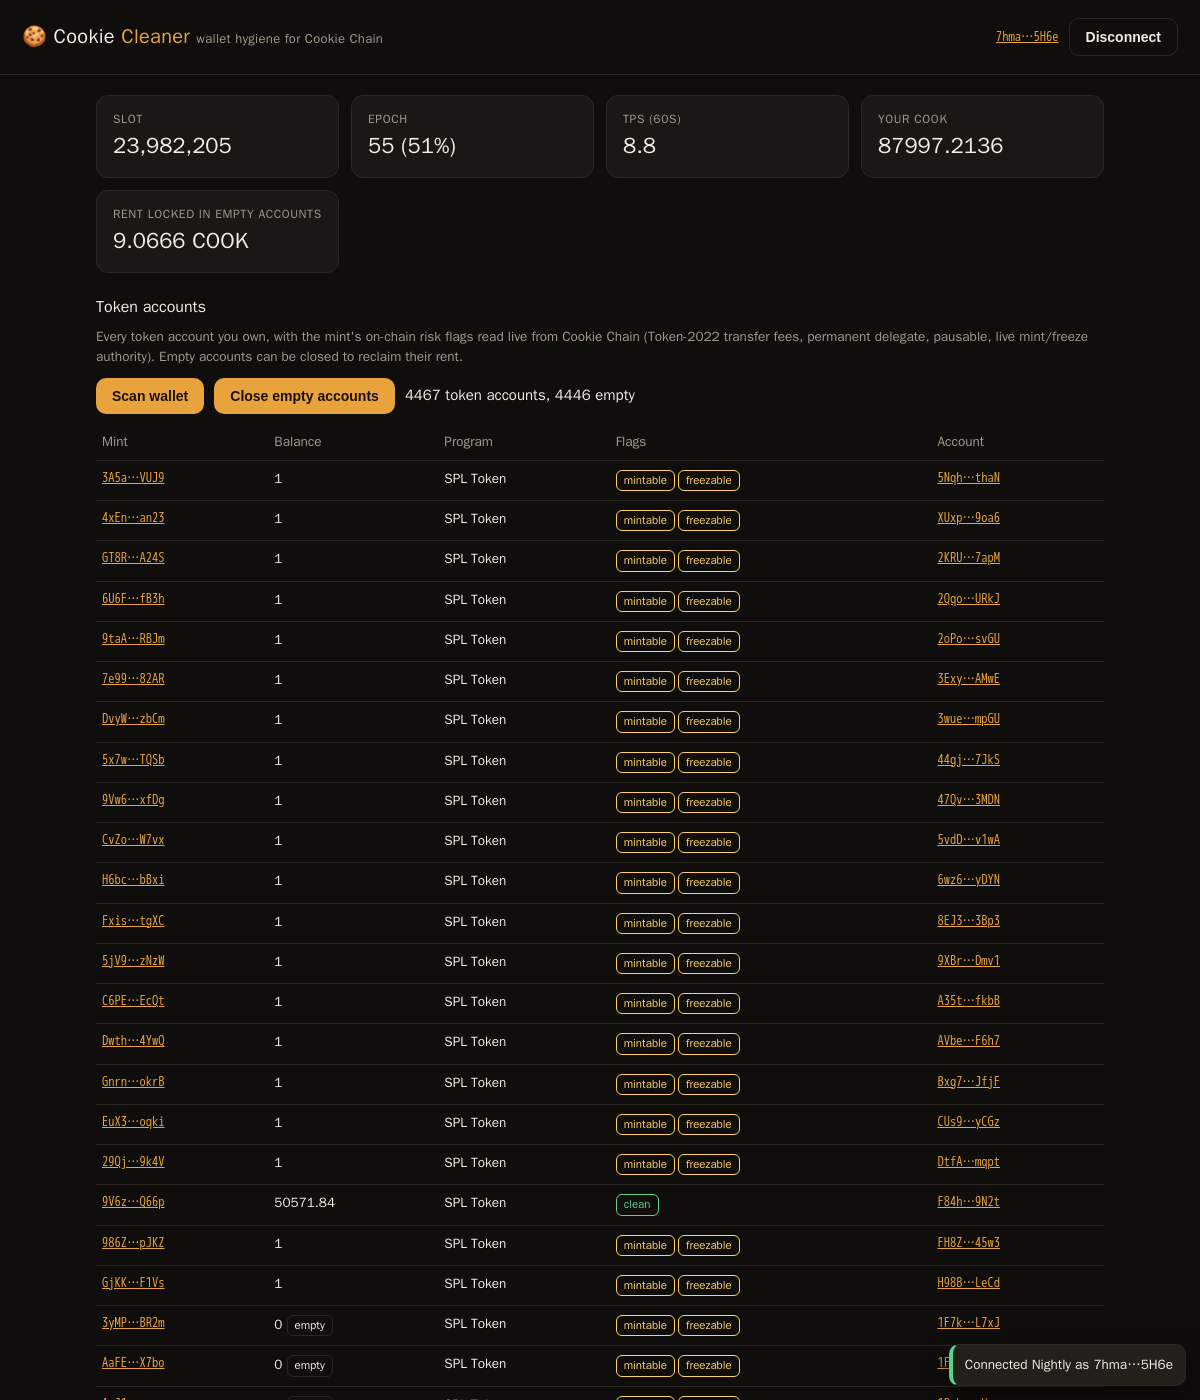
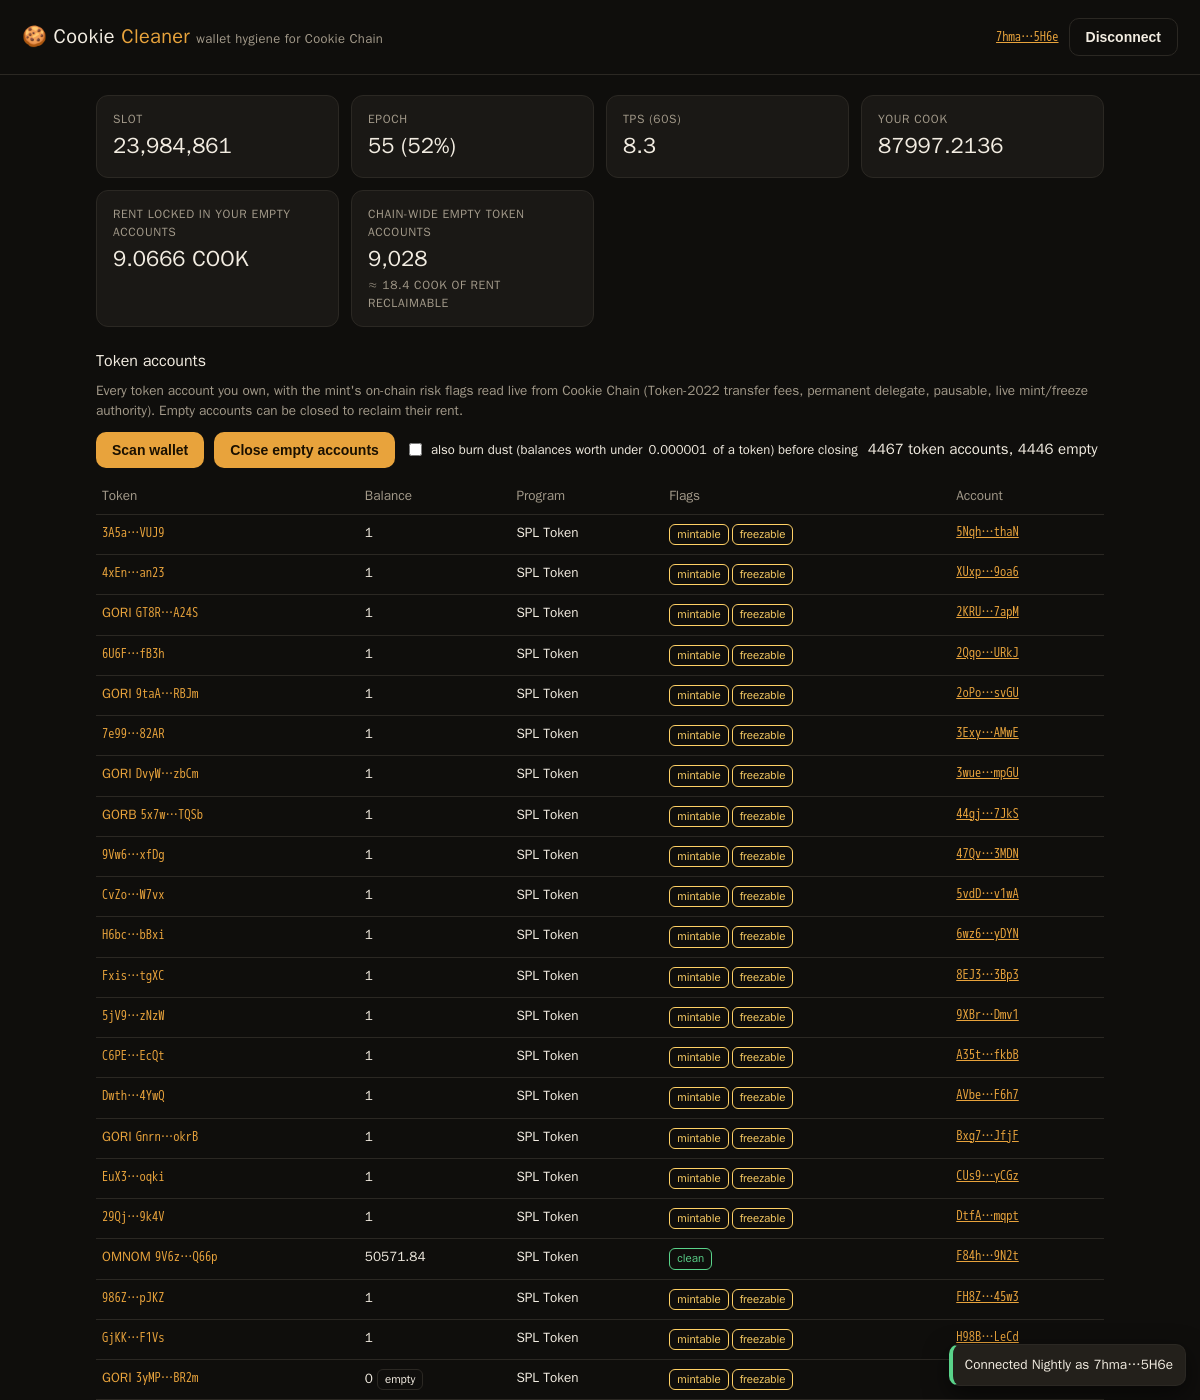
Token names, chain-wide empty-account stat, opt-in dust burn
Claude-Session: https://claude.ai/code/session_01ANS4ryDEhYqrLoKdXbeDq9

diff --git a/index.html b/index.html
@@ -44,7 +44,8 @@ h2{font-size:16px;margin:22px 0 8px}p.muted{color:var(--muted);margin:4px 0 10px
     <div class="card"><div class="k">Epoch</div><div class="v" id="epoch">…</div></div>
     <div class="card"><div class="k">TPS (60s)</div><div class="v" id="tps">…</div></div>
     <div class="card"><div class="k">Your COOK</div><div class="v" id="bal">—</div></div>
-    <div class="card"><div class="k">Rent locked in empty accounts</div><div class="v" id="rent">—</div></div>
+    <div class="card"><div class="k">Rent locked in your empty accounts</div><div class="v" id="rent">—</div></div>
+    <div class="card"><div class="k">Chain-wide empty token accounts</div><div class="v" id="chainEmpty">…</div><div class="k" id="chainRent"></div></div>
   </div>
 
   <h2>Token accounts</h2>
@@ -52,9 +53,10 @@ h2{font-size:16px;margin:22px 0 8px}p.muted{color:var(--muted);margin:4px 0 10px
   <div class="row">
     <button id="btnScan" disabled>Scan wallet</button>
     <button id="btnClose" disabled>Close empty accounts</button>
+    <label class="muted" style="font-size:13px;display:flex;gap:6px;align-items:center"><input type="checkbox" id="burnDust" style="min-width:0"> also burn dust (balances worth under <span id="dustTxt">0.000001</span> of a token) before closing</label>
     <span id="scanInfo" class="muted"></span>
   </div>
-  <div class="wrap"><table id="tbl"><thead><tr><th>Mint</th><th>Balance</th><th>Program</th><th>Flags</th><th>Account</th></tr></thead><tbody></tbody></table></div>
+  <div class="wrap"><table id="tbl"><thead><tr><th>Token</th><th>Balance</th><th>Program</th><th>Flags</th><th>Account</th></tr></thead><tbody></tbody></table></div>
 
   <h2>Send COOK</h2>
   <p class="muted">Plain transfer with confirmation tracking, so the whole sign → send → confirm path is visible.</p>
@@ -78,6 +80,8 @@ const RPC = 'https://rpc.cookiescan.io';
 const EXPLORER = 'https://cookiescan.io';
 const TOKEN = new W.PublicKey('TokenkegQfeZyiNwAJbNbGKPFXCWuBvf9Ss623VQ5DA');
 const TOKEN22 = new W.PublicKey('TokenzQdBNbLqP5VEhdkAS6EPFLC1PHnBqCXEpPxuEb');
+const METAPLEX = new W.PublicKey('metaqbxxUerdq28cj1RbAWkYQm3ybzjb6a8bt518x1s');
+const DUST = 1e-6; // token units; balances below this count as dust for the burn option
 const conn = new W.Connection(RPC, 'confirmed');
 const $ = id => document.getElementById(id);
 
@@ -164,6 +168,14 @@ async function stats() {
     if (perf[0]) $('tps').textContent = (perf[0].numTransactions / perf[0].samplePeriodSecs).toFixed(1);
   } catch (e) { $('slot').textContent = 'rpc error'; }
 }
+// Chain-wide count of empty token accounts (amount == 0 at offset 64), pubkeys only.
+async function chainStats() {
+  try {
+    const [a, b] = await Promise.all([TOKEN, TOKEN22].map(pid => conn.getProgramAccounts(pid, { dataSlice: { offset: 0, length: 0 }, filters: [{ dataSize: 165 }, { memcmp: { offset: 64, bytes: '11111111' } }] })));
+    const n = a.length + b.length; $('chainEmpty').textContent = n.toLocaleString();
+    $('chainRent').textContent = '≈ ' + (n * 2039280 / 1e9).toFixed(1) + ' COOK of rent reclaimable';
+  } catch (e) { $('chainEmpty').textContent = 'n/a'; }
+}
 async function refreshBalance() { try { $('bal').textContent = (await conn.getBalance(pubkey) / 1e9).toFixed(4); } catch (e) { toast('Balance read failed: ' + e.message, 'bad'); } }
 
 // ---------- Token account scan + mint risk flags ----------
@@ -184,8 +196,9 @@ function parseMint(v) {
   let out = { flags: [], program: '?' };
   try {
     if (!v || !v.data || !v.data.parsed) { out.flags.push({ t: 'unknown mint', c: 'warn' }); return out; }
-    const info = v.data.parsed.info; out.program = v.owner.equals(TOKEN22) ? 'Token-2022' : 'SPL Token';
+    const info = v.data.parsed.info; out.program = v.owner.equals(TOKEN22) ? 'Token-2022' : 'SPL Token'; out.decimals = info.decimals;
     const ext = {}; for (const e of info.extensions || []) ext[e.extension] = e.state || {};
+    if (ext.tokenMetadata && ext.tokenMetadata.symbol) out.name = ext.tokenMetadata.symbol;
     const fee = ext.transferFeeConfig && ext.transferFeeConfig.newerTransferFee && ext.transferFeeConfig.newerTransferFee.transferFeeBasisPoints;
     if (fee) out.flags.push({ t: 'transfer tax ' + (fee / 100) + '%', c: 'bad' });
     if (ext.permanentDelegate) out.flags.push({ t: 'permanent delegate', c: 'bad' });
@@ -198,6 +211,19 @@ function parseMint(v) {
   return out;
 }
 const MAX_ROWS = 500;
+// Metaplex token metadata (name/symbol) for mints without Token-2022 metadata, 100 PDAs per call.
+async function loadNames(mints) {
+  const todo = mints.filter(m => mintCache.has(m) && !mintCache.get(m).name && !mintCache.get(m).nameTried);
+  for (let i = 0; i < todo.length; i += 100) {
+    const chunk = todo.slice(i, i + 100);
+    const pdas = chunk.map(m => W.PublicKey.findProgramAddressSync([new TextEncoder().encode('metadata'), METAPLEX.toBytes(), new W.PublicKey(m).toBytes()], METAPLEX)[0]);
+    try {
+      const res = await conn.getMultipleAccountsInfo(pdas);
+      chunk.forEach((m, j) => { const mi = mintCache.get(m); mi.nameTried = true; const acc = res[j]; if (!acc) return;
+        try { const d = acc.data; let o = 1 + 32 + 32; const nl = d.readUInt32LE(o); o += 4; const name = d.slice(o, o + nl).toString('utf8').replace(/\0+$/, ''); o += nl; const sl = d.readUInt32LE(o); o += 4; const sym = d.slice(o, o + sl).toString('utf8').replace(/\0+$/, ''); mi.name = sym || name; mi.fullName = name; } catch (e) {} });
+    } catch (e) { chunk.forEach(m => { mintCache.get(m).nameTried = true; }); }
+  }
+}
 async function scan() {
   $('btnScan').disabled = true; $('scanInfo').textContent = 'scanning…'; accounts = [];
   try {
@@ -213,12 +239,13 @@ async function scan() {
     $('scanInfo').textContent = `${accounts.length} token accounts, ${empties} empty — reading mint flags…`;
     // non-empty accounts first, then empties; cap rows for very large wallets
     const ordered = [...accounts.filter(a => a.raw !== '0'), ...accounts.filter(a => a.raw === '0')].slice(0, MAX_ROWS);
-    await loadMints(ordered.map(a => a.mint));
+    await loadMints(ordered.map(a => a.mint)); await loadNames(ordered.map(a => a.mint));
     for (const ac of ordered) {
       const mi = mintCache.get(ac.mint) || { flags: [], program: '?' };
-      const empty = ac.raw === '0' && !ac.frozen;
+      const empty = ac.raw === '0' && !ac.frozen; const dust = !empty && !ac.frozen && parseFloat(ac.amount) < DUST;
+      const label = mi.name ? `<b>${mi.name.replace(/[<>&]/g, '')}</b> <span class="mono muted">${short(ac.mint)}</span>` : `<span class="mono">${short(ac.mint)}</span>`;
       const tr = document.createElement('tr');
-      tr.innerHTML = `<td class="mono"><a target="_blank" rel="noopener" href="${EXPLORER}/token/${ac.mint}">${short(ac.mint)}</a></td><td>${ac.amount}${empty ? ' <span class="tag">empty</span>' : ''}${ac.frozen ? ' <span class="tag bad">frozen</span>' : ''}</td><td>${mi.program}</td><td>${mi.flags.map(f => `<span class="tag ${f.c}">${f.t}</span>`).join('')}</td><td class="mono"><a target="_blank" rel="noopener" href="${EXPLORER}/address/${ac.pubkey.toBase58()}">${short(ac.pubkey.toBase58())}</a></td>`;
+      tr.innerHTML = `<td><a target="_blank" rel="noopener" href="${EXPLORER}/token/${ac.mint}" style="text-decoration:none">${label}</a></td><td>${ac.amount}${empty ? ' <span class="tag">empty</span>' : ''}${dust ? ' <span class="tag warn">dust</span>' : ''}${ac.frozen ? ' <span class="tag bad">frozen</span>' : ''}</td><td>${mi.program}</td><td>${mi.flags.map(f => `<span class="tag ${f.c}">${f.t}</span>`).join('')}</td><td class="mono"><a target="_blank" rel="noopener" href="${EXPLORER}/address/${ac.pubkey.toBase58()}">${short(ac.pubkey.toBase58())}</a></td>`;
       tb.appendChild(tr);
     }
     if (accounts.length > MAX_ROWS) { const tr = document.createElement('tr'); tr.innerHTML = `<td colspan="5" class="muted">Showing ${MAX_ROWS} of ${accounts.length} accounts. Closing still covers all empty accounts.</td>`; tb.appendChild(tr); }
@@ -232,14 +259,24 @@ function closeIx(ac) {
   return new W.TransactionInstruction({ programId: ac.program, data: Uint8Array.from([9]),
     keys: [{ pubkey: ac.pubkey, isSigner: false, isWritable: true }, { pubkey: pubkey, isSigner: false, isWritable: true }, { pubkey: pubkey, isSigner: true, isWritable: false }] });
 }
+// Burn = instruction index 8, data [8, u64 amount LE].
+function burnIx(ac) {
+  const data = new Uint8Array(9); data[0] = 8; let v = BigInt(ac.raw); for (let i = 0; i < 8; i++) { data[1 + i] = Number(v & 255n); v >>= 8n; }
+  return new W.TransactionInstruction({ programId: ac.program, data,
+    keys: [{ pubkey: ac.pubkey, isSigner: false, isWritable: true }, { pubkey: new W.PublicKey(ac.mint), isSigner: false, isWritable: true }, { pubkey: pubkey, isSigner: true, isWritable: false }] });
+}
 async function closeEmpties() {
-  const targets = accounts.filter(a => a.raw === '0' && !a.frozen && (!a.closeAuth || a.closeAuth === pubkey.toBase58()));
+  const own = a => !a.frozen && (!a.closeAuth || a.closeAuth === pubkey.toBase58());
+  const empties = accounts.filter(a => a.raw === '0' && own(a));
+  const dusts = $('burnDust').checked ? accounts.filter(a => a.raw !== '0' && own(a) && parseFloat(a.amount) < DUST) : [];
+  const targets = [...empties, ...dusts];
   if (!targets.length) return toast('Nothing to close.', '');
+  if (dusts.length && !confirm(`Burn dust in ${dusts.length} account(s) and close them? The tokens are destroyed; only the rent comes back.`)) return;
   $('btnClose').disabled = true;
   try {
-    for (let i = 0; i < targets.length; i += 12) {   // keep each tx small enough for any wallet
-      const batch = targets.slice(i, i + 12); const tx = new W.Transaction();
-      for (const ac of batch) tx.add(closeIx(ac));
+    for (let i = 0; i < targets.length; i += 10) {   // keep each tx small enough for any wallet
+      const batch = targets.slice(i, i + 10); const tx = new W.Transaction();
+      for (const ac of batch) { if (ac.raw !== '0') tx.add(burnIx(ac)); tx.add(closeIx(ac)); }
       await signAndSend(tx, `Close ${batch.length} account${batch.length > 1 ? 's' : ''}`);
     }
     toast('Reclaimed rent from ' + targets.length + ' account(s).', 'ok');
@@ -266,7 +303,7 @@ async function history() {
 
 $('btnConnect').onclick = () => connect().catch(e => toast('Connect failed: ' + e.message, 'bad'));
 $('btnDisconnect').onclick = disconnect; $('btnScan').onclick = scan; $('btnClose').onclick = closeEmpties; $('btnSend').onclick = send;
-stats(); setInterval(stats, 15000);
+stats(); setInterval(stats, 15000); chainStats();
 </script>
 </body>
 </html>

diff --git a/pw_test.js b/pw_test.js
@@ -13,7 +13,7 @@ const srv=http.createServer((q,r)=>{r.end(fs.readFileSync(path.join(__dirname,'i
      'solana:signAndSendTransaction':{signAndSendTransaction:async()=>{throw new Error('user rejected (fake wallet)');}}}}};
  },OWNER);
  await p.goto('http://localhost:8089/');await p.waitForTimeout(3000);
- const stats=await p.evaluate(()=>['slot','epoch','tps'].map(i=>document.getElementById(i).textContent));console.log('stats',stats);
+ const stats=await p.evaluate(()=>['slot','epoch','tps'].map(i=>document.getElementById(i).textContent));console.log('stats',stats);await p.waitForFunction(()=>!/…/.test(document.getElementById('chainEmpty').textContent),null,{timeout:120000});console.log('chain',await p.textContent('#chainEmpty'),await p.textContent('#chainRent'));
  await p.click('#btnConnect');await p.waitForTimeout(1500);console.log('addr',await p.textContent('#addr'));
  await p.waitForFunction(()=>/token accounts, \d+ empty$/.test(document.getElementById('scanInfo').textContent),null,{timeout:180000});
  console.log('scanInfo',await p.textContent('#scanInfo'),'| bal',await p.textContent('#bal'),'| rent',await p.textContent('#rent'));

diff --git a/README.md b/README.md
@@ -15,10 +15,10 @@ The second problem is Token-2022 extensions. A mint can carry a transfer tax, a 
 ## What it does
 
 1. **Connect** a Nightly wallet through the Wallet Standard (`window.nightly.solana`), with fallback to any registered Solana wallet or a legacy `window.solana` provider.
-2. **Scan** all SPL Token and Token-2022 accounts of the connected wallet and display balance, program, and mint flags: `transfer tax`, `permanent delegate`, `pausable`, `transfer hook`, `mintable`, `freezable`, or `clean`.
-3. **Close empty accounts** in batches of 12 per transaction. Skips frozen accounts and accounts whose close authority is not the wallet. Each transaction is simulated first, then signed by the wallet, sent, and confirmed against the block height; every step shows a toast with an explorer link.
+2. **Scan** all SPL Token and Token-2022 accounts of the connected wallet and display token name (Token-2022 metadata or Metaplex), balance, program, and mint flags: `transfer tax`, `permanent delegate`, `pausable`, `transfer hook`, `mintable`, `freezable`, or `clean`.
+3. **Close empty accounts** in batches of 10 per transaction, with an opt-in **dust burn** (balances under 0.000001 of a token are burned first, after an explicit confirmation) so near-empty accounts can be reclaimed too. Skips frozen accounts and accounts whose close authority is not the wallet. Each transaction is simulated first, then signed by the wallet, sent, and confirmed against the block height; every step shows a toast with an explorer link.
 4. **Send COOK** with balance and address validation and the same simulate → sign → send → confirm path.
-5. **Chain stats** (slot, epoch progress, TPS) and the wallet's recent signatures with success or failure status.
+5. **Chain stats** (slot, epoch progress, TPS, and a live chain-wide count of empty token accounts with the rent they hold) and the wallet's recent signatures with success or failure status.
 
 No backend. The page talks only to `https://rpc.cookiescan.io` from the browser. No keys leave the wallet.
 
